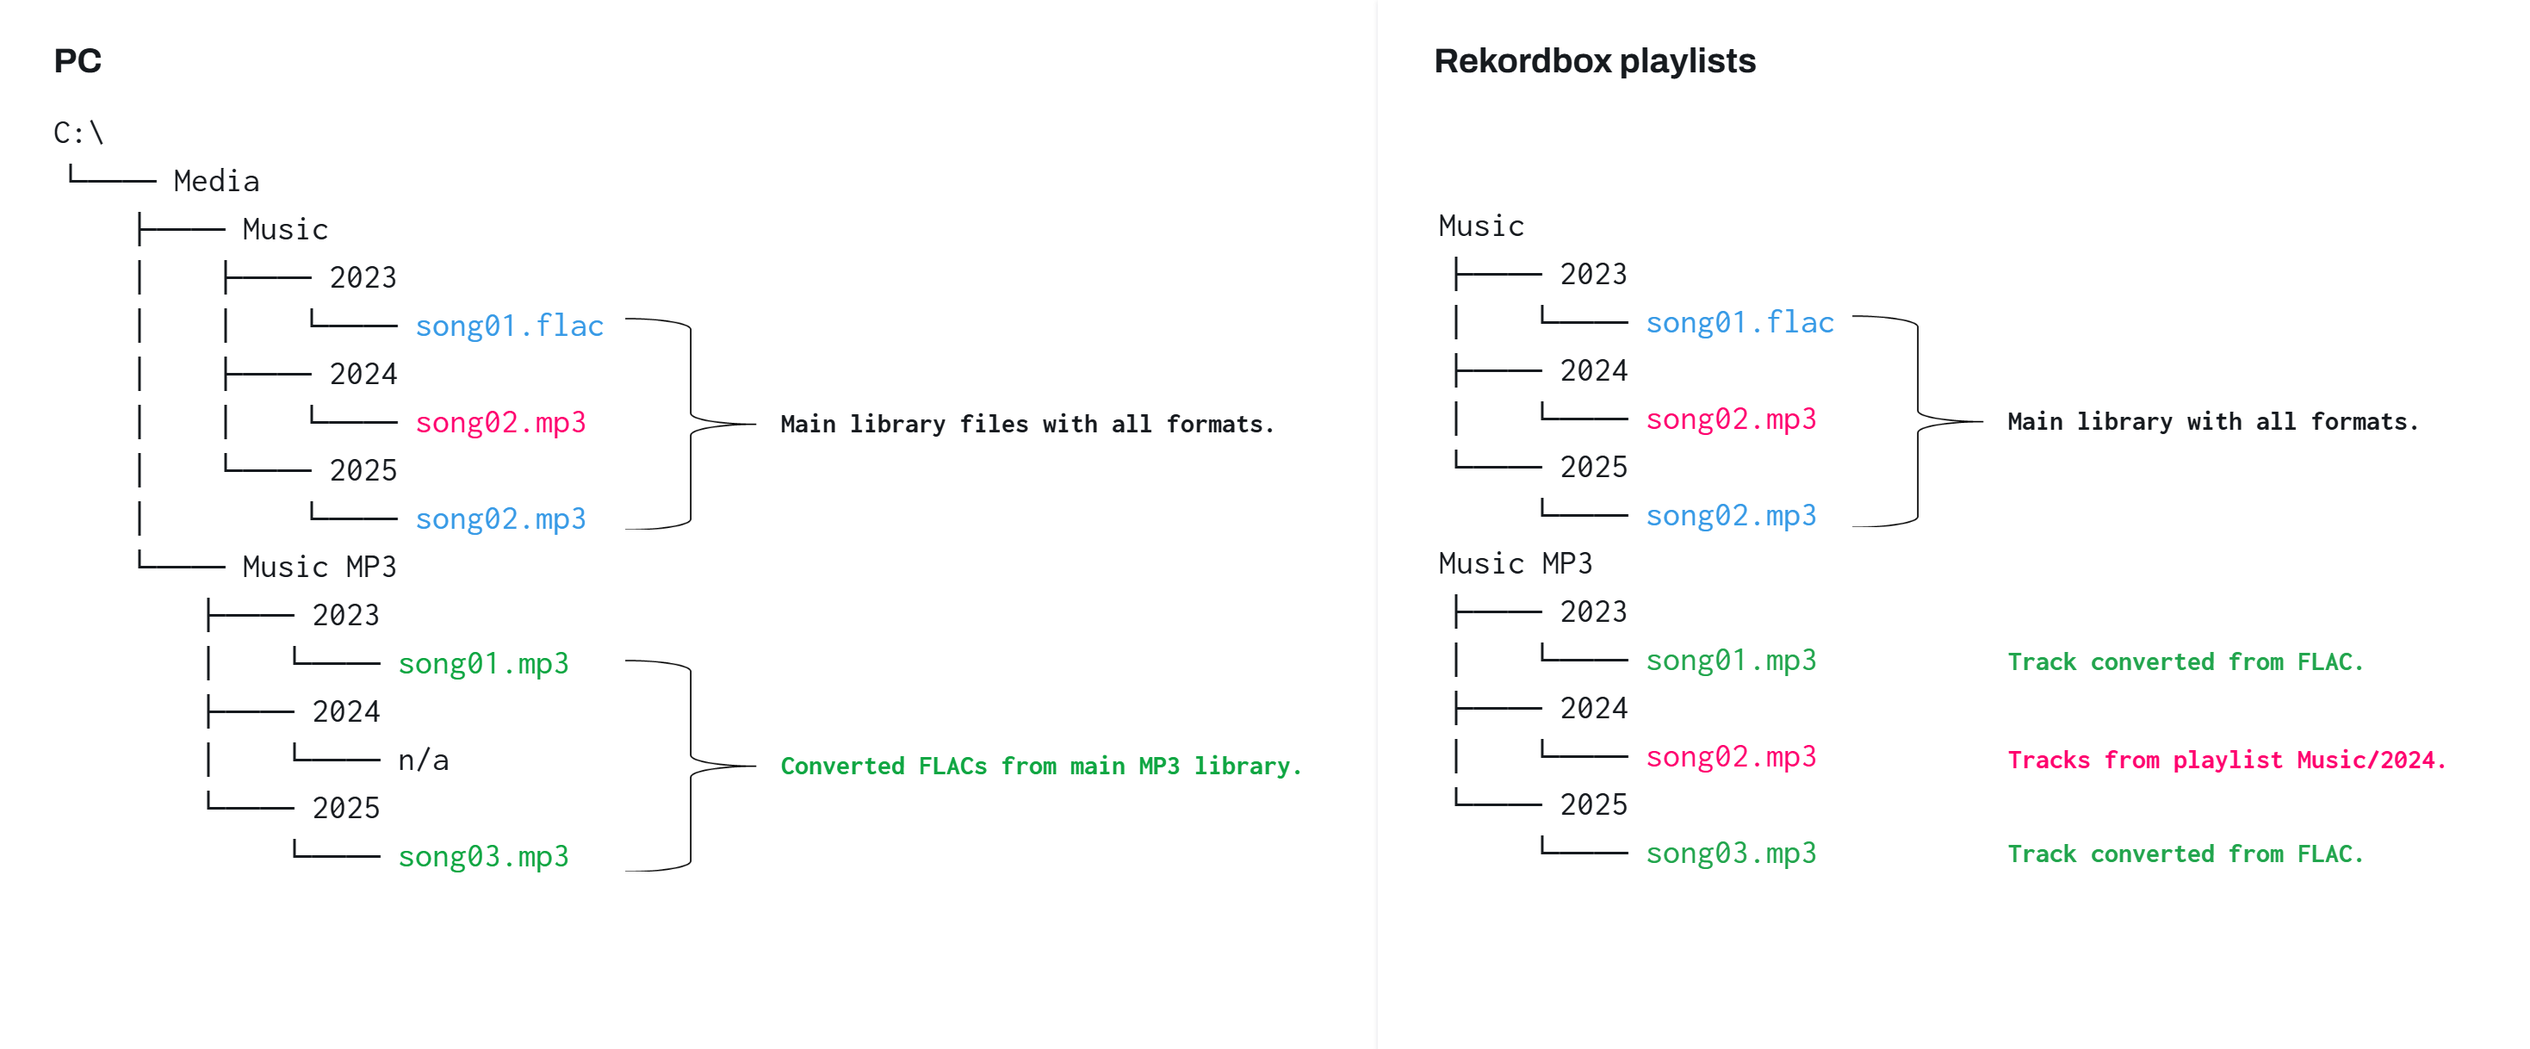
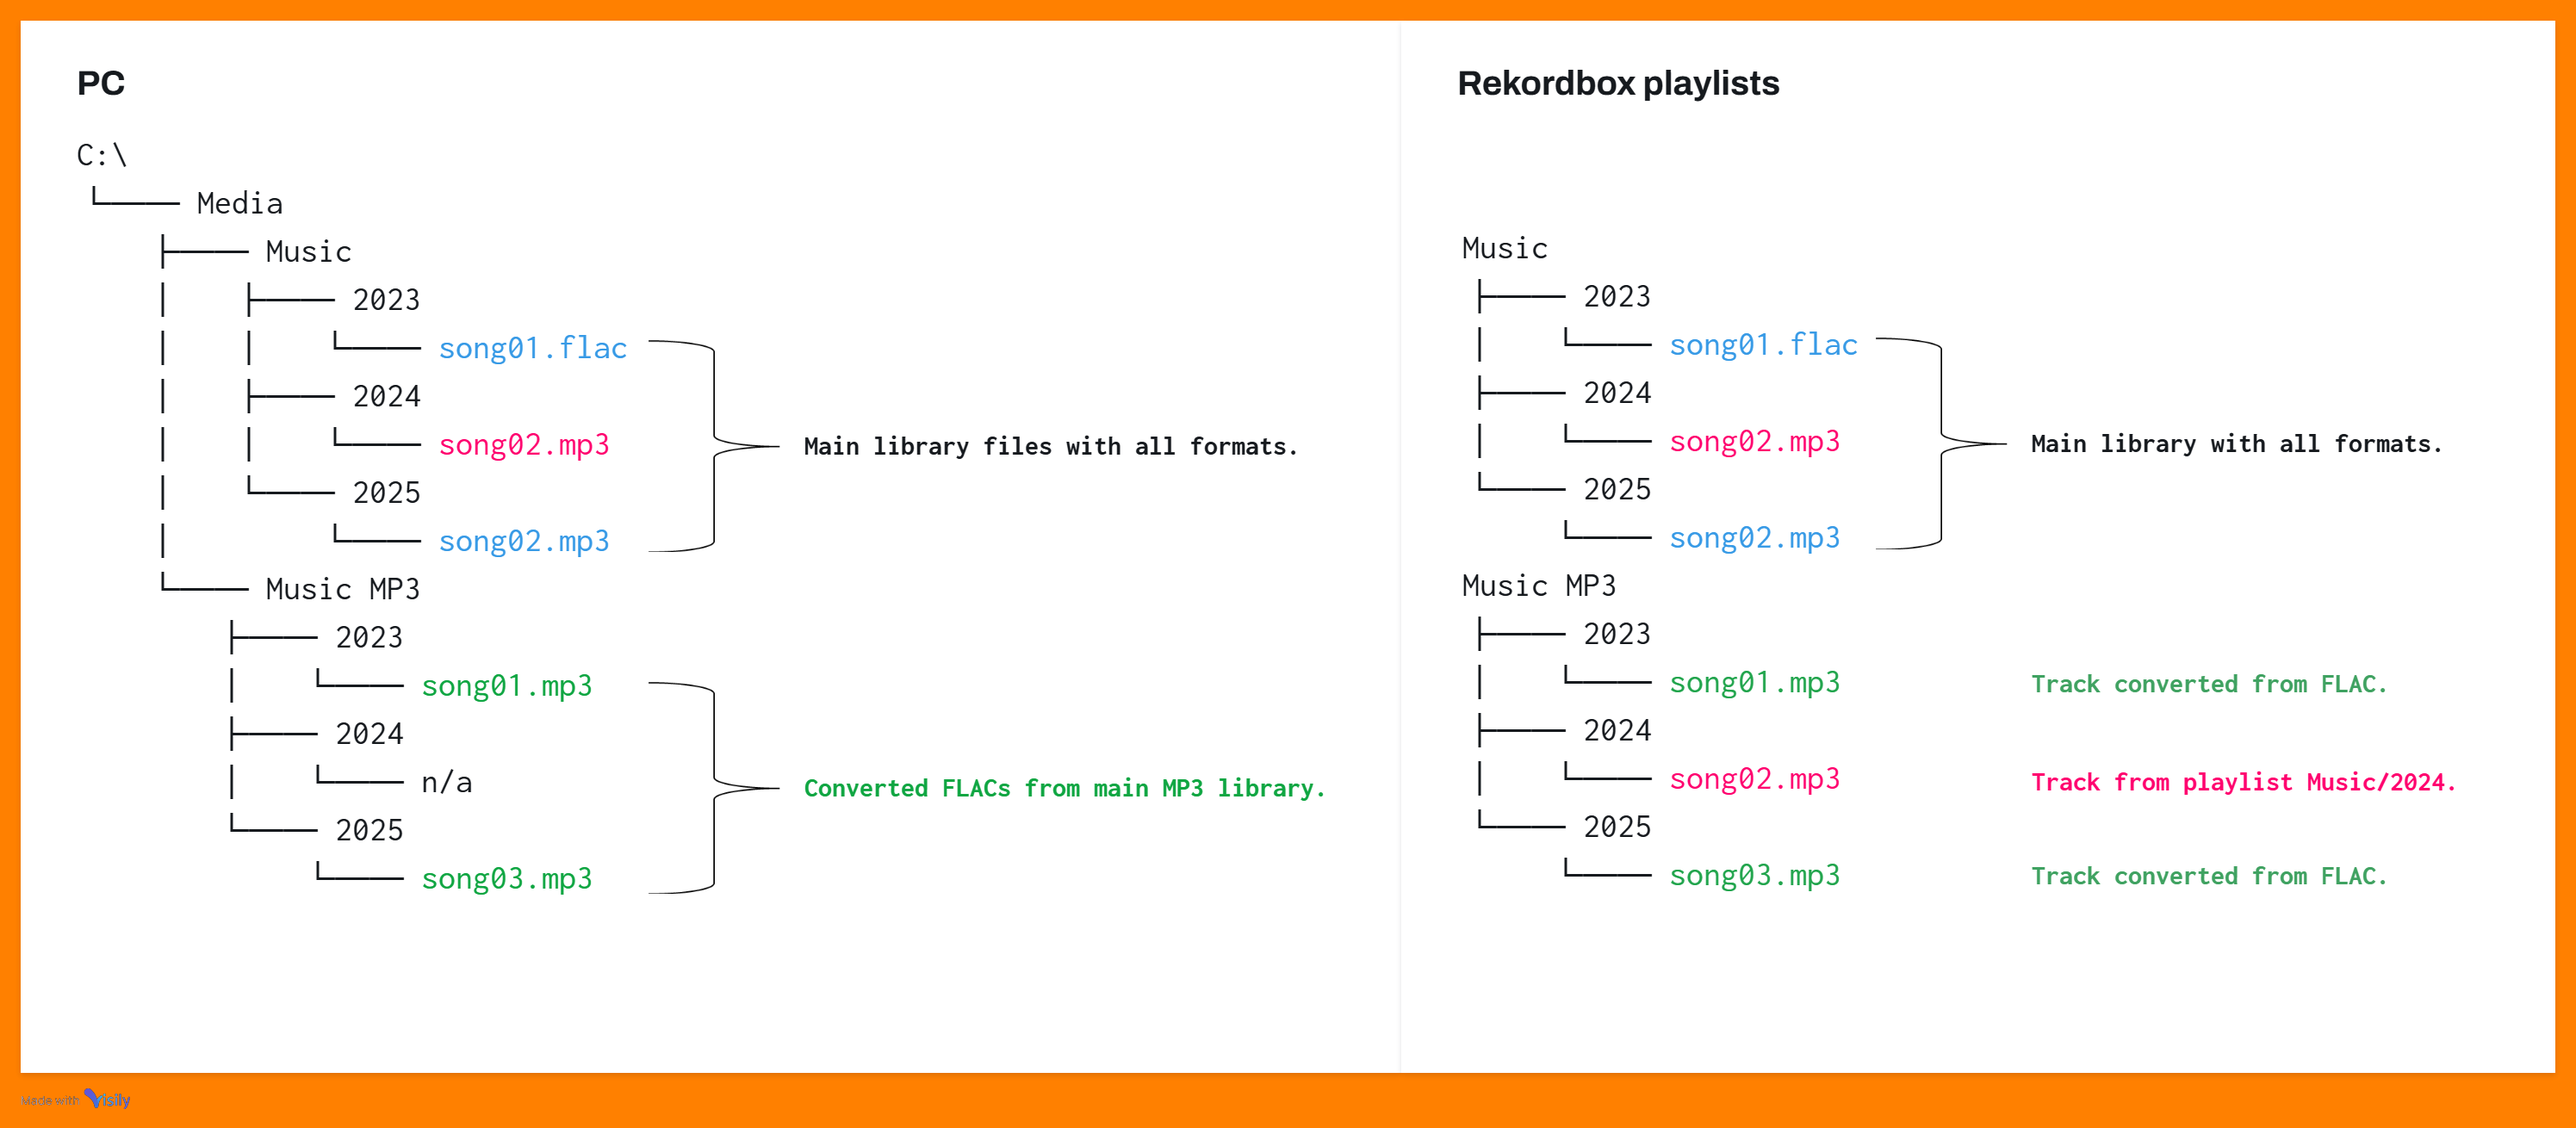
Some cosmetics changes

diff --git a/README.md b/README.md
@@ -12,16 +12,22 @@ The author of the application is an active DJ who places great emphasis on corre
 
 The main shortcomings the author needed to solve were:
 
-1. [Older Pioneer CDJ players do not support the FLAC format.](#1-older-pioneer-cdj-players-do-not-support-the-flac-format)
-2. [Some metadata is not saved for FLAC files.](#2-some-metadata-is-not-saved-for-flac-files)
-3. [Transfer of (HOT) CUEs and other information.](3-transfer-of-hot-cues-and-other-information)
-4. [Inability to change the track format.](#4-inability-to-change-the-track-format)
-5. [CDJs do not allow sorting tracks by release date.](#5-cdjs-do-not-allow-sorting-tracks-by-release-date)
-6. [Lack of format conversion.](#6-lack-of-format-conversion)
+- [Notice](#notice)
+- [Why Was This Application Created?](#why-was-this-application-created)
+- [What Does the Application Specifically Address?](#what-does-the-application-specifically-address)
+    - [1. Older Pioneer CDJ players do not support the FLAC format.](#1-older-pioneer-cdj-players-do-not-support-the-flac-format)
+    - [2. Some metadata is not saved for FLAC files.](#2-some-metadata-is-not-saved-for-flac-files)
+    - [3. Transfer of (HOT) CUEs and other information.](#3-transfer-of-hot-cues-and-other-information)
+    - [4. Inability to change the track format.](#4-inability-to-change-the-track-format)
+    - [5. CDJs do not allow sorting tracks by release date.](#5-cdjs-do-not-allow-sorting-tracks-by-release-date)
+    - [6. Lack of format conversion.](#6-lack-of-format-conversion)
+- [How the Application Works](#how-the-application-works)
+- [Installation](#installation)
+- [Final Information](#final-information)
 
 ### 1. Older Pioneer CDJ players do not support the FLAC format. ###
 
-The author solved this by ensuring that every FLAC in his collection has an MP3 version stored separately from the main collection. The storage contains two main folders: `Music` (the main collection with FLAC and MP3) and `Music MP3` (a collection of MP3s created from the FLACs in `Music`). This folder structure is mirrored. In rekordbox<sup>TM</sup>, there are two root folders: `Music` and `Music MP3`. `Music` contains playlists that match the folders in `Music`, and `Music` contains playlists based on the folders and contents in the storage, supplemented with MP3s from the main collection. Both folders can then be exported from rekordbox<sup>TM</sup> to portable storage (USB Flash, HDD, SSD, SD card), and if the DJ is using older CDJs, they select tracks from `Music MP3`. See a specific example below of the files and playlist structure for easier understanding.
+The author solved this by ensuring that every FLAC in his collection has an MP3 version stored separately from the main collection. The storage contains two main folders: `Music` (the main collection with FLAC and MP3) and `Music MP3` (a collection of MP3s created from the FLACs located in `Music`). This folder structure is mirrored. In rekordbox<sup>TM</sup>, there are two root folders: `Music` and `Music MP3`. `Music` contains playlists that match the folders in `Music`, and `Music` contains playlists based on the folders and contents in the storage, supplemented with MP3s from the main collection. Both folders can then be exported from rekordbox<sup>TM</sup> to portable storage (USB Flash, HDD, SSD, SD card), and if the DJ is using older CDJs, he select tracks from `Music MP3`. See a specific example below of the files and playlist structure for easier understanding.
 
 
 <img alt="Files & playlist structure" src="media/files_and_playlists_structure.png">
